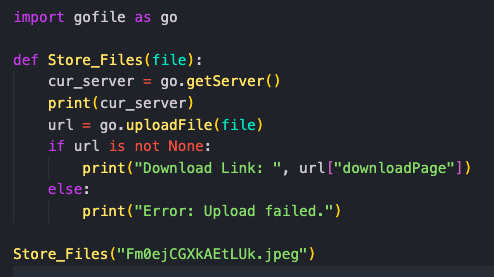
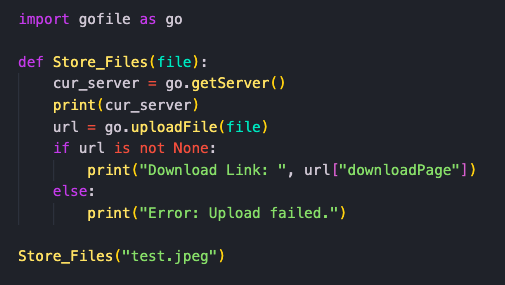
README.md Edit

diff --git a/README.md b/README.md
@@ -2,12 +2,28 @@
 ## Day 128: Cloud File Sharing using Python
 ## Upload As many as 50 files at once
 
-## An Improved Version of the Original.
+## My Improved Version of the Original.
 
 ## Suppport Packages Required:
 ## pip install gofile
 
-![Alt text](code.png?raw=true "Cloud File Sharing Code")
+<!-- ![Alt text](code.png?raw=true "Cloud File Sharing Code") -->
+
+```
+import gofile as go
+
+def Store_Files(file):
+    cur_server = go.getServer()
+    print(cur_server)
+    url = go.uploadFile(file)
+    if url is not None:
+        print("Download Link: ", url["downloadPage"])
+    else:
+        print("Error: Upload failed.")
+
+Store_Files("test.jpeg")
+
+```
 
 
 ## rayturner.dev
